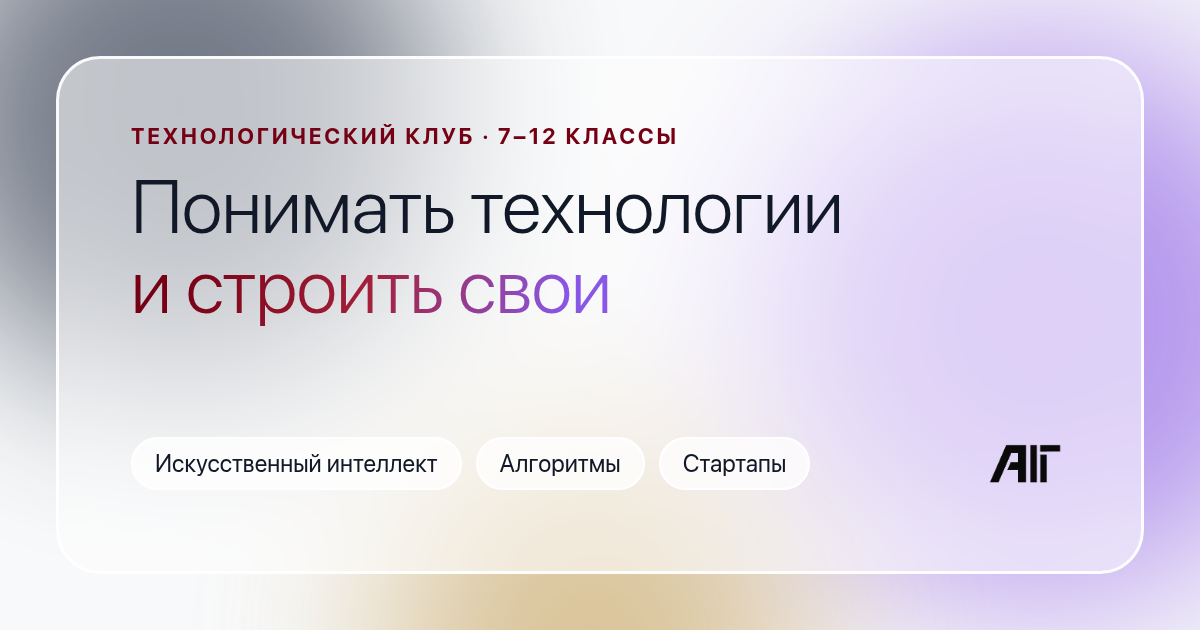
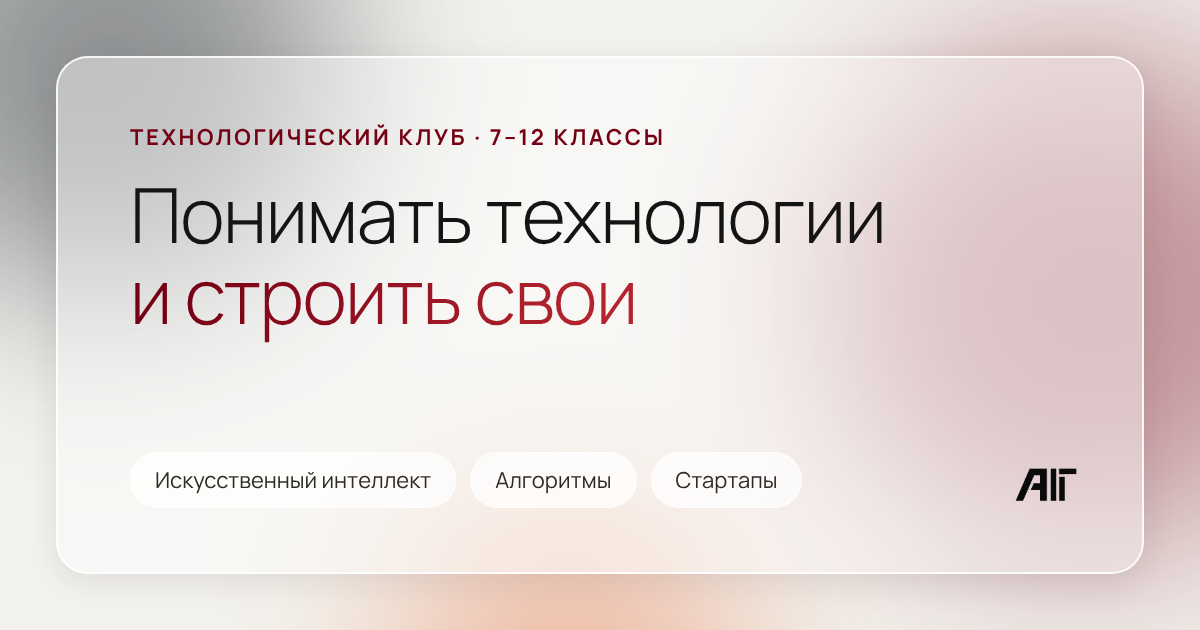
design: one set of club tokens for the site and the Hub
The site and the Hub keep their material (frosted glass over drifting colour) and take the
tokens of the AIT Club design system, the same ones the club's decks and posts use:

- Manrope for everyone instead of SF Rounded on Apple devices and Nunito elsewhere, so every
  device shows the same letters
- the club's warm neutrals as Tailwind's gray scale; the paper background #f3f2ee
- background colour from the club palette only: graphite, silver, MIT Red, the coral edge of
  the club's glow — no navy, violet, gold or teal
- MIT Red (#750014) as the one accent: track badges and the site's track icons share it, the
  violet in the headline and 404 gradients goes, the old #a3203a red goes
- warm neutral shadows instead of blue ones
- a new link preview (og.png) in the same tokens, with its source in scripts/og/og.html

Status colours (accepted, needs work, missed) and opportunity categories stay as they are.

Claude-Session: https://claude.ai/code/session_015DxofoA2yqfyZpJbF3xdDs

diff --git a/site/site.css b/site/site.css
@@ -1,22 +1,33 @@
 @import "tailwindcss" source(".");
 
-/* The club site shares the Hub's look: frosted glass over slowly drifting colour, the club's
-   maroon as the one accent, a rounded face (SF Rounded on Apple devices, Nunito elsewhere). */
+/* The club site shares the Hub's material — frosted glass over slowly drifting colour — and the
+   tokens of the "AIT Club" design system: Manrope, the club's warm neutrals, MIT Red (#750014) as
+   the one accent. Keep these in step with src/index.css. */
 @theme {
-  --color-gray-500: oklch(0.49 0.027 264.364);
-  --color-gray-600: oklch(0.41 0.03 256.802);
+  --font-sans: 'Manrope Variable', system-ui, -apple-system, 'Segoe UI', Roboto, Arial, sans-serif;
+  --color-gray-50: #faf9f6;
+  --color-gray-100: #f1efea;
+  --color-gray-200: #e4e0d8;
+  --color-gray-300: #d3cec5;
+  --color-gray-400: #a9a49c;
+  --color-gray-500: #67615b;
+  --color-gray-600: #57514b;
+  --color-gray-700: #4a4540;
+  --color-gray-800: #2e2a26;
+  --color-gray-900: #141414;
+  --color-gray-950: #0b0a09;
 }
 
 @layer base {
   html {
     -webkit-text-size-adjust: 100%;
-    background-color: #f8f9fa;
+    background-color: #f3f2ee;
     scroll-behavior: smooth;
     scroll-padding-top: 6rem;
   }
   html, body {
-    font-family: ui-rounded, 'SF Pro Rounded', 'Nunito Variable', system-ui, -apple-system, 'Segoe UI', Roboto, sans-serif;
-    color: #111827;
+    font-family: var(--font-sans);
+    color: #141414;
   }
   body {
     margin: 0;
@@ -36,8 +47,9 @@
   inset: 0;
   z-index: -1;
   overflow: hidden;
-  background: #f8f9fa;
+  background: #f3f2ee;
 }
+/* The club's palette only: graphite and silver, MIT Red, the coral edge of the club's glow. */
 .blob {
   position: absolute;
   border-radius: 9999px;
@@ -45,10 +57,10 @@
   opacity: 0.55;
   will-change: transform;
 }
-.blob-1 { width: 38vw; height: 38vw; left: 5%; top: 2%; background: #1b263b; animation: drift-1 22s ease-in-out infinite; }
-.blob-2 { width: 34vw; height: 34vw; right: 2%; top: 18%; background: #8957e5; animation: drift-2 26s ease-in-out infinite; }
-.blob-3 { width: 30vw; height: 30vw; left: 30%; top: 55%; background: #c5a059; animation: drift-3 24s ease-in-out infinite; }
-.blob-4 { width: 26vw; height: 26vw; right: 20%; bottom: -8%; background: #750014; opacity: 0.35; animation: drift-1 30s ease-in-out infinite reverse; }
+.blob-1 { width: 38vw; height: 38vw; left: 5%; top: 2%; background: #40464c; opacity: 0.38; animation: drift-1 22s ease-in-out infinite; }
+.blob-2 { width: 34vw; height: 34vw; right: 2%; top: 18%; background: #750014; opacity: 0.4; animation: drift-2 26s ease-in-out infinite; }
+.blob-3 { width: 30vw; height: 30vw; left: 30%; top: 55%; background: #e8794a; opacity: 0.45; animation: drift-3 24s ease-in-out infinite; }
+.blob-4 { width: 26vw; height: 26vw; right: 20%; bottom: -8%; background: #8b959e; animation: drift-1 30s ease-in-out infinite reverse; }
 @keyframes drift-1 { 50% { transform: translate(18vw, 12vh) scale(1.08); } }
 @keyframes drift-2 { 50% { transform: translate(-14vw, 16vh) scale(0.92); } }
 @keyframes drift-3 { 50% { transform: translate(-10vw, -14vh) scale(1.1); } }
@@ -65,7 +77,7 @@
   -webkit-backdrop-filter: blur(40px);
   backdrop-filter: blur(40px);
   border: 2px solid rgb(255 255 255 / 0.8);
-  box-shadow: 0 8px 32px 0 rgb(31 38 135 / 0.12);
+  box-shadow: 0 8px 32px 0 rgb(50 30 30 / 0.12);
 }
 .nav-link {
   padding: 0.4rem 0.75rem;
@@ -110,7 +122,7 @@
   font-weight: 600;
 }
 .accent-text {
-  background: linear-gradient(100deg, #750014 10%, #a3203a 50%, #8957e5 90%);
+  background: linear-gradient(100deg, #750014 10%, #b3242f 90%);
   -webkit-background-clip: text;
   background-clip: text;
   color: transparent;
@@ -130,7 +142,7 @@
   border: 1.5px dashed rgb(117 0 20 / 0.22);
   animation: spin 60s linear infinite;
 }
-.orbit::after { inset: 24%; border-color: rgb(137 87 229 / 0.25); animation-duration: 40s; animation-direction: reverse; }
+.orbit::after { inset: 24%; border-color: rgb(139 149 158 / 0.4); animation-duration: 40s; animation-direction: reverse; }
 .orbit-core {
   position: absolute;
   inset: 35%;
@@ -152,7 +164,7 @@
   border-radius: 1.1rem;
   background: rgb(255 255 255 / 0.72);
   border: 2px solid #fff;
-  box-shadow: 0 14px 40px -16px rgb(31 38 135 / 0.35);
+  box-shadow: 0 14px 40px -16px rgb(50 30 30 / 0.35);
   -webkit-backdrop-filter: blur(24px);
   backdrop-filter: blur(24px);
   font-size: 0.85rem;
@@ -184,7 +196,7 @@
 
 /* ── Tracks ─────────────────────────────────────────────────────────────────── */
 .track { border-radius: 1.75rem; padding: 1.6rem; display: flex; flex-direction: column; transition: transform 0.35s, box-shadow 0.35s; }
-.track:hover { transform: translateY(-4px); box-shadow: 0 24px 50px -24px rgb(31 38 135 / 0.4); }
+.track:hover { transform: translateY(-4px); box-shadow: 0 24px 50px -24px rgb(50 30 30 / 0.4); }
 .track-icon { width: 3rem; height: 3rem; border-radius: 1rem; display: grid; place-items: center; font-weight: 700; }
 .track-title { font-size: 1.3rem; margin-top: 1.1rem; }
 .track-text { color: #374151; font-size: 0.95rem; margin-top: 0.6rem; }
@@ -195,7 +207,7 @@
 
 /* ── Timeline ───────────────────────────────────────────────────────────────── */
 .timeline { position: relative; display: grid; gap: 1rem; padding-left: 1.8rem; }
-.timeline::before { content: ''; position: absolute; left: 0.55rem; top: 0.6rem; bottom: 0.6rem; width: 2px; background: linear-gradient(#750014, #8957e5, #c5a059); opacity: 0.4; border-radius: 2px; }
+.timeline::before { content: ''; position: absolute; left: 0.55rem; top: 0.6rem; bottom: 0.6rem; width: 2px; background: linear-gradient(#750014, #b3242f, #8b959e); opacity: 0.4; border-radius: 2px; }
 .timeline-item { position: relative; padding: 1.1rem 1.25rem; border-radius: 1.25rem; background: rgb(255 255 255 / 0.4); border: 2px solid rgb(255 255 255 / 0.85); }
 .timeline-item h3 { font-size: 1.05rem; }
 .timeline-item p { color: #374151; font-size: 0.93rem; margin-top: 0.3rem; }
@@ -207,7 +219,7 @@
 .feature b { font-weight: 600; }
 .feature span { color: #374151; font-size: 0.92rem; }
 .shots { position: relative; padding-bottom: 2.5rem; }
-.shot { margin: 0; border-radius: 1.25rem; overflow: hidden; border: 2px solid #fff; box-shadow: 0 30px 70px -30px rgb(31 38 135 / 0.55); background: #fff; }
+.shot { margin: 0; border-radius: 1.25rem; overflow: hidden; border: 2px solid #fff; box-shadow: 0 30px 70px -30px rgb(50 30 30 / 0.55); background: #fff; }
 .shot img { display: block; width: 100%; height: auto; }
 .shot-desktop { transform: perspective(1400px) rotateY(-6deg) rotateX(2deg); transition: transform 0.6s; }
 .shots:hover .shot-desktop { transform: none; }

diff --git a/src/index.css b/src/index.css
@@ -1,24 +1,32 @@
 @import "tailwindcss";
 
-/* Small grey text sits on translucent glass: the two lightest text greys are a step darker than
-   Tailwind's, so captions stay readable over the coloured background. */
+/* AIT Club tokens, shared by the Hub, the club site, decks and posts (the "AIT Club" design
+   system). One face for everyone: Manrope, served from this site, so every device sees the same
+   letters. Greys are the club's warm neutrals; the 500/600 steps stay dark enough for captions
+   on translucent glass over the coloured background. Ink is the black of the logo. */
 @theme {
-  --color-gray-500: oklch(0.49 0.027 264.364);
-  --color-gray-600: oklch(0.41 0.03 256.802);
+  --font-sans: 'Manrope Variable', system-ui, -apple-system, 'Segoe UI', Roboto, 'Helvetica Neue', Arial, sans-serif;
+  --color-gray-50: #faf9f6;
+  --color-gray-100: #f1efea;
+  --color-gray-200: #e4e0d8;
+  --color-gray-300: #d3cec5;
+  --color-gray-400: #a9a49c;
+  --color-gray-500: #67615b;
+  --color-gray-600: #57514b;
+  --color-gray-700: #4a4540;
+  --color-gray-800: #2e2a26;
+  --color-gray-900: #141414;
+  --color-gray-950: #0b0a09;
 }
 
-/* On Apple devices `ui-rounded` is SF Pro Rounded, the look the design was drawn in (Apple's
-   fonts can't be shipped from a website). Everywhere else Nunito — a rounded face with full
-   Cyrillic, served from this site — keeps the same character instead of Segoe UI / Roboto.
-   A browser downloads Nunito only where SF Rounded isn't installed. */
 @layer base {
   html {
     -webkit-text-size-adjust: 100%;
-    background-color: #f8f9fa;
+    background-color: #f3f2ee;
   }
 
   html, body {
-    font-family: ui-rounded, 'SF Pro Rounded', 'Nunito Variable', system-ui, -apple-system, 'Segoe UI', Roboto, 'Helvetica Neue', Arial, sans-serif;
+    font-family: var(--font-sans);
   }
 
   body {
@@ -47,8 +55,10 @@
   inset: 0;
   z-index: -1;
   overflow: hidden;
-  background: #f8f9fa;
+  background: #f3f2ee;
 }
+/* The club's palette only: graphite and silver from MIT's greys, MIT Red and the warm coral edge
+   of the club's glow texture. */
 .app-blob {
   position: absolute;
   border-radius: 9999px;
@@ -57,11 +67,11 @@
   will-change: transform;
   animation: 48s ease-in-out infinite alternate;
 }
-.app-blob-1 { width: 32vw; height: 32vw; left: 10%; top: 6%; background: #1b263b; animation-name: blob-1; }
-.app-blob-2 { width: 35vw; height: 35vw; right: 5%; top: 14%; background: #4a5568; animation-name: blob-2; animation-duration: 40s; }
-.app-blob-3 { width: 45vw; height: 45vw; left: 25%; top: 35%; background: #8957e5; filter: blur(130px); animation-name: blob-3; animation-duration: 56s; }
-.app-blob-4 { width: 30vw; height: 30vw; right: 6%; bottom: 4%; background: #c5a059; animation-name: blob-2; animation-duration: 52s; animation-direction: alternate-reverse; }
-.app-blob-5 { width: 30vw; height: 30vw; left: 4%; bottom: 6%; background: #00b5ad; animation-name: blob-1; animation-duration: 44s; animation-direction: alternate-reverse; }
+.app-blob-1 { width: 32vw; height: 32vw; left: 10%; top: 6%; background: #40464c; animation-name: blob-1; }
+.app-blob-2 { width: 35vw; height: 35vw; right: 5%; top: 14%; background: #8b959e; animation-name: blob-2; animation-duration: 40s; }
+.app-blob-3 { width: 45vw; height: 45vw; left: 25%; top: 35%; background: #750014; opacity: 0.42; filter: blur(130px); animation-name: blob-3; animation-duration: 56s; }
+.app-blob-4 { width: 30vw; height: 30vw; right: 6%; bottom: 4%; background: #e8794a; opacity: 0.5; animation-name: blob-2; animation-duration: 52s; animation-direction: alternate-reverse; }
+.app-blob-5 { width: 30vw; height: 30vw; left: 4%; bottom: 6%; background: #b8c2cc; animation-name: blob-1; animation-duration: 44s; animation-direction: alternate-reverse; }
 @keyframes blob-1 { to { transform: translate3d(30vw, 22vh, 0) scale(1.06); } }
 @keyframes blob-2 { to { transform: translate3d(-12vw, 10vh, 0) scale(0.94); } }
 @keyframes blob-3 { to { transform: translate3d(-14vw, 8vh, 0) scale(1.08); } }

diff --git a/site/index.html b/site/index.html
@@ -80,15 +80,15 @@
           <div class="reveal relative" aria-hidden="true">
             <div class="orbit">
               <div class="orbit-card orbit-card-1">
-                <span class="orbit-icon bg-violet-600/10 text-violet-800">AI</span>
+                <span class="orbit-icon bg-[#750014]/10 text-[#750014]">AI</span>
                 <span><b>Искусственный интеллект</b><br /><small>12 проектов CS50 AI</small></span>
               </div>
               <div class="orbit-card orbit-card-2">
-                <span class="orbit-icon bg-sky-600/10 text-sky-800">{ }</span>
+                <span class="orbit-icon bg-[#750014]/10 text-[#750014]">{ }</span>
                 <span><b>Алгоритмы</b><br /><small>C++ · Codeforces · CSES</small></span>
               </div>
               <div class="orbit-card orbit-card-3">
-                <span class="orbit-icon bg-amber-600/15 text-amber-800">↗</span>
+                <span class="orbit-icon bg-[#750014]/10 text-[#750014]">↗</span>
                 <span><b>Стартап-инженерия</b><br /><small>MVP · пользователи · питч</small></span>
               </div>
               <div class="orbit-core">
@@ -107,7 +107,7 @@
           <p class="reveal section-lead">Одно направление, чтобы хватило времени сделать его по-настоящему. Знать Python или C++ заранее не нужно — нужна готовность работать каждую неделю.</p>
           <div class="grid md:grid-cols-3 gap-4 sm:gap-5 mt-10">
             <article class="reveal track glass">
-              <div class="track-icon bg-violet-600/10 text-violet-800">AI</div>
+              <div class="track-icon bg-[#750014]/10 text-[#750014]">AI</div>
               <h3 class="track-title">Искусственный интеллект</h3>
               <p class="track-text">Как ИИ устроен внутри. Основа — гарвардский курс CS50’s Introduction to AI with Python: поиск, логика, вероятности, оптимизация, машинное обучение, нейросети и языковые модели.</p>
               <ul class="track-list">
@@ -118,7 +118,7 @@
               <p class="track-tools">Python · CS50 AI</p>
             </article>
             <article class="reveal track glass">
-              <div class="track-icon bg-sky-600/10 text-sky-800">{ }</div>
+              <div class="track-icon bg-[#750014]/10 text-[#750014]">{ }</div>
               <h3 class="track-title">Алгоритмы и олимпиады</h3>
               <p class="track-text">Олимпиадные задачи: придумать алгоритм, оценить его до того, как писать код, и написать без ошибок.</p>
               <ul class="track-list">
@@ -129,7 +129,7 @@
               <p class="track-tools">C++ · CSES · Codeforces · USACO Guide</p>
             </article>
             <article class="reveal track glass">
-              <div class="track-icon bg-amber-600/15 text-amber-800">↗</div>
+              <div class="track-icon bg-[#750014]/10 text-[#750014]">↗</div>
               <h3 class="track-title">Стартап-инженерия</h3>
               <p class="track-text">От проблемы до продукта, которым пользуются, — своими руками: интервью с клиентами, лендинг, MVP на React, первые пользователи, рост и питч.</p>
               <ul class="track-list">

diff --git a/scripts/og/og.html b/scripts/og/og.html
@@ -1,0 +1,35 @@
+<!doctype html>
+<!-- The link preview of aitclub.org (site/public/og.png, 1200×630), drawn in the club's tokens.
+     Regenerate after changing it, from the repository root:
+       google-chrome --headless=new --hide-scrollbars --window-size=1200,630 \
+         --screenshot=site/public/og.png "file://$PWD/scripts/og/og.html" -->
+<html lang="ru">
+<head>
+<meta charset="utf-8">
+<style>
+  @font-face { font-family: 'Manrope Variable'; font-weight: 200 800; src: url(../../node_modules/@fontsource-variable/manrope/files/manrope-cyrillic-wght-normal.woff2) format('woff2'); unicode-range: U+0301, U+0400-045F, U+0490-0491, U+04B0-04B1, U+2116; }
+  @font-face { font-family: 'Manrope Variable'; font-weight: 200 800; src: url(../../node_modules/@fontsource-variable/manrope/files/manrope-latin-wght-normal.woff2) format('woff2'); }
+  html, body { margin: 0; width: 1200px; height: 630px; overflow: hidden; background: #f3f2ee; font-family: 'Manrope Variable', Arial, sans-serif; color: #141414; }
+  .blob { position: absolute; border-radius: 9999px; filter: blur(90px); }
+  .b1 { width: 460px; height: 460px; left: -120px; top: -160px; background: #40464c; opacity: .55; }
+  .b2 { width: 520px; height: 520px; right: -140px; top: 40px; background: #750014; opacity: .38; }
+  .b3 { width: 380px; height: 380px; left: 380px; bottom: -260px; background: #e8794a; opacity: .45; }
+  .card { position: absolute; inset: 56px; border-radius: 32px; background: rgb(255 255 255 / .42); border: 2px solid rgb(255 255 255 / .85); box-shadow: 0 8px 32px rgb(50 30 30 / .10); backdrop-filter: blur(40px); padding: 64px 72px; box-sizing: border-box; }
+  .kicker { margin: 0; font-size: 22px; font-weight: 700; letter-spacing: .12em; text-transform: uppercase; color: #750014; }
+  h1 { margin: 22px 0 0; font-size: 76px; line-height: 1.06; font-weight: 300; letter-spacing: -1.5px; }
+  .accent { background: linear-gradient(100deg, #750014 10%, #b3242f 90%); -webkit-background-clip: text; background-clip: text; color: transparent; }
+  .chips { position: absolute; left: 72px; bottom: 64px; display: flex; gap: 14px; }
+  .chip { padding: 12px 24px; border-radius: 9999px; background: rgb(255 255 255 / .7); border: 1px solid rgb(255 255 255 / .95); font-size: 22px; color: #2e2a26; }
+  .logo { position: absolute; right: 58px; bottom: 50px; height: 76px; }
+</style>
+</head>
+<body>
+  <span class="blob b1"></span><span class="blob b2"></span><span class="blob b3"></span>
+  <div class="card">
+    <p class="kicker">Технологический клуб · 7–12 классы</p>
+    <h1>Понимать технологии<br><span class="accent">и строить свои</span></h1>
+    <div class="chips"><span class="chip">Искусственный интеллект</span><span class="chip">Алгоритмы</span><span class="chip">Стартапы</span></div>
+    <img class="logo" src="../../public/aitlogo.png" alt="">
+  </div>
+</body>
+</html>

diff --git a/src/pages/OpportunitiesPage.tsx b/src/pages/OpportunitiesPage.tsx
@@ -21,7 +21,7 @@ function OpportunityCard({ o }: { o: OpportunityRow }) {
   return (
     <motion.article layout initial={{ opacity: 0, y: 12 }} animate={{ opacity: 1, y: 0 }} exit={{ opacity: 0, scale: 0.97 }}
       transition={{ type: 'spring', stiffness: 380, damping: 32 }}
-      className="group relative flex flex-col gap-2 rounded-3xl border-2 border-white/80 bg-white/30 backdrop-blur-[40px] p-4 sm:p-5 shadow-[0_8px_32px_0_rgba(31,38,135,0.12)] hover:bg-white/45 hover:-translate-y-0.5 transition-[background-color,transform]">
+      className="group relative flex flex-col gap-2 rounded-3xl border-2 border-white/80 bg-white/30 backdrop-blur-[40px] p-4 sm:p-5 shadow-[0_8px_32px_0_rgba(50,30,30,0.12)] hover:bg-white/45 hover:-translate-y-0.5 transition-[background-color,transform]">
       <div className="flex items-start justify-between gap-2">
         <OpportunityBadges o={o} />
         <span className="relative z-10 -mt-1 -mr-1"><SaveButton o={o} /></span>

diff --git a/src/pages/NotFoundPage.tsx b/src/pages/NotFoundPage.tsx
@@ -16,7 +16,7 @@ export function NotFoundPage() {
       exit="exit"
       className="max-w-xl mx-auto"
     >
-      <GlassCard className="text-center py-14 shadow-[0_8px_32px_0_rgba(31,38,135,0.2)]">
+      <GlassCard className="text-center py-14 shadow-[0_8px_32px_0_rgba(50,30,30,0.2)]">
         <motion.div
           animate={{ y: [0, -16, 0], rotate: [0, -6, 6, 0] }}
           transition={{ duration: 4, repeat: Infinity, ease: 'easeInOut' }}
@@ -25,7 +25,7 @@ export function NotFoundPage() {
           🛸
         </motion.div>
 
-        <div className="text-[7rem] leading-none font-black bg-gradient-to-r from-[#750014] via-purple-500 to-[#00B5AD] bg-clip-text text-transparent mb-4">
+        <div className="text-[7rem] leading-none font-black bg-gradient-to-r from-[#750014] to-[#b3242f] bg-clip-text text-transparent mb-4">
           404
         </div>
 

diff --git a/src/components/ErrorBoundary.tsx b/src/components/ErrorBoundary.tsx
@@ -39,7 +39,7 @@ export class ErrorBoundary extends Component<Props, State> {
 
     return (
       <div className="min-h-screen flex items-center justify-center p-8 text-center bg-gradient-to-br from-gray-100 via-[#750014]/5 to-[#00B5AD]/10">
-        <div className="max-w-md backdrop-blur-[40px] bg-white/60 border-2 border-white/80 rounded-3xl p-10 shadow-[0_8px_32px_0_rgba(31,38,135,0.2)]">
+        <div className="max-w-md backdrop-blur-[40px] bg-white/60 border-2 border-white/80 rounded-3xl p-10 shadow-[0_8px_32px_0_rgba(50,30,30,0.2)]">
                     <h1 className="text-3xl font-light mb-2">{c.title}</h1>
           <p className="text-sm text-gray-600 mb-4">{c.text}</p>
           {this.state.message && (

diff --git a/index.html b/index.html
@@ -4,7 +4,7 @@
     <meta charset="UTF-8" />
     <meta name="viewport" content="width=device-width, initial-scale=1.0, viewport-fit=cover" />
     <meta name="robots" content="noindex, nofollow" />
-    <meta name="theme-color" content="#f8f9fa" />
+    <meta name="theme-color" content="#f3f2ee" />
     <meta name="description" content="AIT Hub — портал участников AIT Club: программа направлений, календарь, AIT Points, рейтинг, команды и проекты." />
     <link rel="icon" type="image/png" href="/aitlogo1.png" />
     <link rel="apple-touch-icon" href="/icons/apple-touch-icon.png" />

diff --git a/src/components/TrackBadge.tsx b/src/components/TrackBadge.tsx
@@ -2,10 +2,11 @@ import { useI18n } from '../context/i18nContext'
 import type { TrackId } from '../lib/db'
 import { chip } from '../lib/ui'
 
+// One accent for the club: the three directions share MIT Red and are told apart by their name.
 const COLORS: Record<TrackId, string> = {
-  ai: 'bg-violet-600/10 text-violet-800',
-  algo: 'bg-sky-600/10 text-sky-800',
-  startup: 'bg-amber-600/15 text-amber-800',
+  ai: 'bg-[#750014]/10 text-[#750014]',
+  algo: 'bg-[#750014]/10 text-[#750014]',
+  startup: 'bg-[#750014]/10 text-[#750014]',
 }
 
 export function TrackBadge({ track, short = true }: { track: TrackId | null | undefined; short?: boolean }) {

diff --git a/src/components/OpportunityBits.tsx b/src/components/OpportunityBits.tsx
@@ -46,7 +46,7 @@ export function DeadlineChip({ o, large = false }: { o: OpportunityRow; large?: 
   const s = deadlineState(o)
   const size = large ? 'text-sm px-3 py-1' : ''
   if (s.kind === 'open') {
-    const tone = s.days <= 7 ? 'bg-[#a3203a]/10 text-[#a3203a]' : s.days <= 30 ? 'bg-amber-500/15 text-amber-900' : 'bg-gray-900/5 text-gray-700'
+    const tone = s.days <= 7 ? 'bg-[#750014]/10 text-[#750014]' : s.days <= 30 ? 'bg-amber-500/15 text-amber-900' : 'bg-gray-900/5 text-gray-700'
     return (
       <span className={`${chip} ${tone} ${size}`}>
         <Clock className="w-3 h-3" />

diff --git a/src/components/GlassCard.tsx b/src/components/GlassCard.tsx
@@ -14,7 +14,7 @@ export function GlassCard({ className = '', children }: GlassCardProps) {
   return (
     <motion.div
       variants={cardVariants}
-      className={`backdrop-blur-[40px] bg-white/25 border-2 border-white/80 rounded-3xl p-4 sm:p-6 shadow-[0_8px_32px_0_rgba(31,38,135,0.15)] ${className}`}
+      className={`backdrop-blur-[40px] bg-white/25 border-2 border-white/80 rounded-3xl p-4 sm:p-6 shadow-[0_8px_32px_0_rgba(50,30,30,0.15)] ${className}`}
     >
       {children}
     </motion.div>

diff --git a/src/components/Navbar.tsx b/src/components/Navbar.tsx
@@ -46,7 +46,7 @@ export function Navbar() {
   const inbox = useInbox(Boolean(profile))
   const unread = (inbox.data ?? []).reduce((sum, c) => sum + c.unread, 0)
 
-  const toolbar = 'backdrop-blur-[40px] bg-white/50 border border-white/70 shadow-[0_8px_32px_0_rgba(31,38,135,0.12)]'
+  const toolbar = 'backdrop-blur-[40px] bg-white/50 border border-white/70 shadow-[0_8px_32px_0_rgba(50,30,30,0.12)]'
 
   return (
     <>
